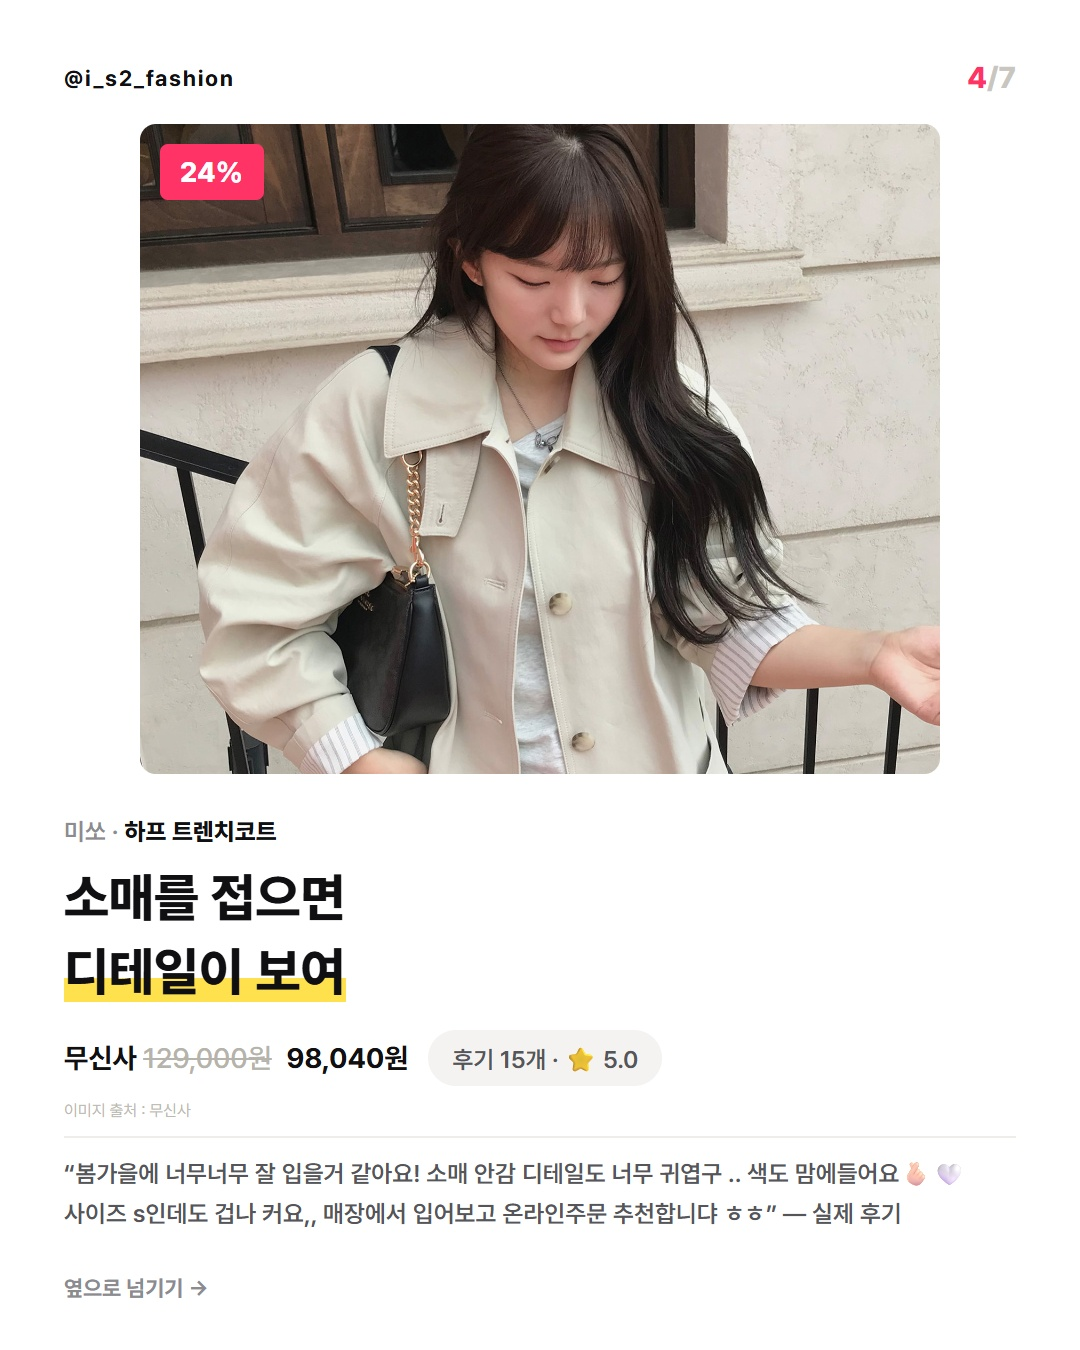
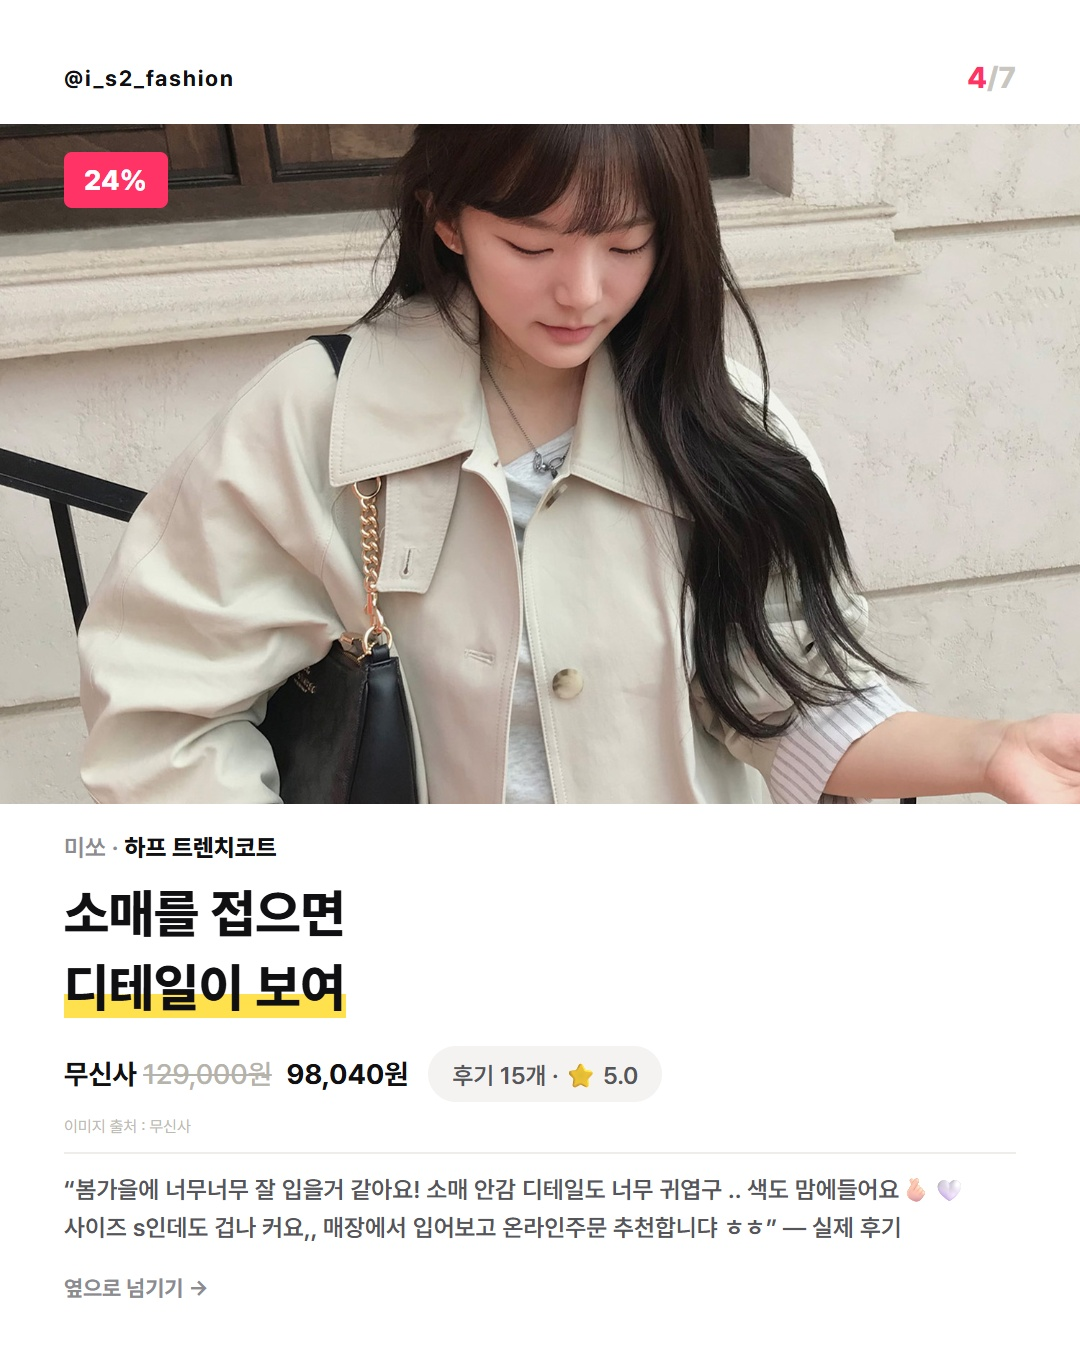
chore: auto-commit by Claude Code (2026-09-04 01:22:17)

diff --git a/card-drafts/early-autumn-outer/index.html b/card-drafts/early-autumn-outer/index.html
@@ -5,9 +5,10 @@
 /* 원본 비율을 유지하므로 남는 영역을 채우는 인위적인 사진 프레임은 사용하지 않는다. */
 .photo{background:transparent}
 .meta s{color:#b6b3ac;font-weight:500;margin-right:4px}
-.card.item .photo,.card.cover .photo{width:400px;border-radius:8px;background:#f0efec}
-.card.cover .photo{height:370px}
-.card.item .photo{height:325px;box-shadow:inset 0 0 0 1px #ebe9e5}
+.card.item .photo,.card.cover .photo{width:540px;margin-left:-32px;margin-right:-32px;align-self:stretch;border-radius:0;background:#f0efec}
+.card.item .photo .badge,.card.cover .photo .badge{left:32px;top:14px}
+.card.cover .photo{height:380px}
+.card.item .photo{height:340px;box-shadow:none}
 .card.item .caption{margin-top:12px}
 .card.item .photo img,.card.cover .photo img{width:100%;height:100%;object-fit:cover;object-position:var(--pos,50% 20%)}
 .cover .caption{margin-top:14px}
@@ -16,10 +17,10 @@
 const cards=[
 {kind:'cover',img:'assets/cover-calvin-big.jpg',pos:'50% 15%',lab:'표지',kicker:'EARLY AUTUMN OUTER',title:'반팔 위에 바로,<br><em>초가을 아우터</em>',sub:'두껍지 않게 분위기만 먼저 바꾸는 다섯 벌'},
 {kind:'item',img:'assets/01-eightseconds-cardigan-crop.jpg',pos:'50% 10%',lab:'에잇세컨즈',badge:'9%',prod:'에잇세컨즈 · <b>러플 긴소매 카디건</b>',title:'진주 단추는 뻑뻑해도<br><em>디자인이 이긴다</em>',meta:'무신사 <s>69,900원</s> 63,610원',proof:'후기 3개 · ⭐ 5.0',sp:'“디자인도 맘에 들고 느낌도 좋아요 단점이라면 단추가 진주라서 좀 빡셉니다. 그래도 그런 단점을 상쇄하는 디자인이에요.” —&nbsp;실제&nbsp;후기'},
-{kind:'item',img:'assets/02-polo-big.jpg',pos:'50% 50%',lab:'폴로 랄프 로렌',badge:'5%',prod:'폴로 랄프 로렌 · <b>빅 재킷 네이비</b>',title:'해링턴보다<br><em>빅 재킷</em>',meta:'무신사 <s>499,000원</s> 474,050원',proof:'후기 6개 · ⭐ 4.8',sp:'“비싸서 매번 쳐다만 보던 폴로 재킷 구매했습니다. 다른 폴로의 워크 재킷류가 많았지만 해링턴 재킷보다는 빅재킷이 제일 이뻐보여서 이걸로 장만했습니다.” —&nbsp;실제&nbsp;후기'},
-{kind:'item',img:'assets/03-mixxo-cuff.jpg',pos:'50% 35%',lab:'미쏘',badge:'24%',prod:'미쏘 · <b>하프 트렌치코트</b>',title:'소매를 접으면<br><em>디테일이 보여</em>',meta:'무신사 <s>129,000원</s> 98,040원',proof:'후기 15개 · ⭐ 5.0',sp:'“봄가을에 너무너무 잘 입을거 같아요! 소매 안감 디테일도 너무 귀엽구 .. 색도 맘에들어요🫰🏻🤍 사이즈 s인데도 겁나 커요,, 매장에서 입어보고 온라인주문 추천합니댜 ㅎㅎ” —&nbsp;실제&nbsp;후기'},
+{kind:'item',img:'assets/02-polo-big.jpg',pos:'50% 35%',lab:'폴로 랄프 로렌',badge:'5%',prod:'폴로 랄프 로렌 · <b>빅 재킷 네이비</b>',title:'해링턴보다<br><em>빅 재킷</em>',meta:'무신사 <s>499,000원</s> 474,050원',proof:'후기 6개 · ⭐ 4.8',sp:'“비싸서 매번 쳐다만 보던 폴로 재킷 구매했습니다. 다른 폴로의 워크 재킷류가 많았지만 해링턴 재킷보다는 빅재킷이 제일 이뻐보여서 이걸로 장만했습니다.” —&nbsp;실제&nbsp;후기'},
+{kind:'item',img:'assets/03-mixxo-cuff.jpg',pos:'50% 38%',lab:'미쏘',badge:'24%',prod:'미쏘 · <b>하프 트렌치코트</b>',title:'소매를 접으면<br><em>디테일이 보여</em>',meta:'무신사 <s>129,000원</s> 98,040원',proof:'후기 15개 · ⭐ 5.0',sp:'“봄가을에 너무너무 잘 입을거 같아요! 소매 안감 디테일도 너무 귀엽구 .. 색도 맘에들어요🫰🏻🤍 사이즈 s인데도 겁나 커요,, 매장에서 입어보고 온라인주문 추천합니댜 ㅎㅎ” —&nbsp;실제&nbsp;후기'},
 {kind:'item',img:'assets/04-calvin-big.jpg',pos:'50% 45%',lab:'캘빈클라인 진',badge:'40%',prod:'캘빈클라인 진 · <b>콘트라스트 스티치 윈드브레이커</b>',title:'가볍게 걸치고<br><em>뒤는 확실하게</em>',meta:'무신사 <s>219,000원</s> 131,400원',proof:'후기 98개 · ⭐ 4.9',sp:'“뒤에 백로고가 너무 예뻐요. 간절기에 들고 다니고 걸치기 좋은 두께감입니다. 가벼워요” —&nbsp;실제&nbsp;후기'},
-{kind:'item',img:'assets/05-adidas-big.jpg',pos:'50% 100%',lab:'아디다스',badge:'17%',prod:'아디다스 · <b>클래식 트랙탑</b>',title:'색감 예쁜데<br><em>밑단 시보리 짱짱</em>',meta:'무신사 <s>109,000원</s> 90,470원',proof:'후기 9개 · ⭐ 5.0',sp:'“디자인이랑 색감 진짜 이뻐요! 그리고 밑단 시보리가 엄청 짱짱해서 골반에 딱 걸쳐요 이 부분 고려해서 사이즈 선택해야 할 것 같아요” —&nbsp;실제&nbsp;후기'},
+{kind:'item',img:'assets/05-adidas-big.jpg',pos:'50% 74%',lab:'아디다스',badge:'17%',prod:'아디다스 · <b>클래식 트랙탑</b>',title:'색감 예쁜데<br><em>밑단 시보리 짱짱</em>',meta:'무신사 <s>109,000원</s> 90,470원',proof:'후기 9개 · ⭐ 5.0',sp:'“디자인이랑 색감 진짜 이뻐요! 그리고 밑단 시보리가 엄청 짱짱해서 골반에 딱 걸쳐요 이 부분 고려해서 사이즈 선택해야 할 것 같아요” —&nbsp;실제&nbsp;후기'},
 {kind:'cta',img:'../../CARD/zzal/20260830.jpg',lab:'CTA',title:'다 사고 싶지만<br><em>통장은 하나</em>',sub:'이번 가을 가장 먼저 살 한 벌부터<br>골라서 저장해두세요'}];
 function html(c,i){let photo=c.kind==='cta'?`<div class="photo"><img src="${c.img}" alt="" onload="sizePhoto(this)"></div>`:`<div class="photo"><img src="${c.img}" alt="" style="--pos:${c.pos||'50% 20%'}">${c.badge?`<span class="badge">${c.badge}</span>`:''}</div>`,body=c.kind==='cover'?`<div class="caption"><div class="kicker">${c.kicker}</div><h2 class="title">${c.title}</h2><p class="sub">${c.sub}</p></div>`:c.kind==='cta'?`<div class="caption"><h2 class="title">${c.title}</h2><p class="sub">${c.sub}</p></div>`:`<div class="caption"><div class="prodline">${c.prod}</div><h2 class="title">${c.title}</h2><div class="metarow"><span class="meta">${c.meta}</span><span class="proof">${c.proof}</span></div><div class="credit">이미지 출처 : 무신사</div><div class="selling">${c.sp}</div></div>`;return `<div class="card ${c.kind}" id="card${i}"><div class="toprow"><span class="handle">@i_s2_fashion</span><span class="num">${i+1}<i>/7</i></span></div>${photo}${body}<div class="foot">${i<6?'옆으로 넘기기 →':'&nbsp;'}</div></div>`}
 function sizePhoto(img){const wrap=img.parentElement,isCta=wrap.closest('.cta'),maxW=isCta?400:330,maxH=isCta?380:330,ratio=img.naturalWidth/img.naturalHeight;let w=maxW,h=Math.round(w/ratio);if(h>maxH){h=maxH;w=Math.round(h*ratio)}wrap.style.width=w+'px';wrap.style.height=h+'px'}

diff --git a/card-drafts/early-autumn-denim/render.py b/card-drafts/early-autumn-denim/render.py
@@ -1,0 +1,37 @@
+from pathlib import Path
+
+from playwright.sync_api import sync_playwright
+
+
+draft = Path(__file__).resolve().parent
+
+with sync_playwright() as playwright:
+    browser = playwright.chromium.launch(
+        executable_path=r"C:\Program Files\Google\Chrome\Application\chrome.exe",
+        headless=True,
+    )
+    context = browser.new_context(
+        viewport={"width": 1200, "height": 900}, device_scale_factor=2
+    )
+    page = context.new_page()
+    page.goto((draft / "index.html").as_uri())
+    page.wait_for_load_state("networkidle")
+    for index in range(7):
+        page.evaluate(
+            "(index) => { const card = document.querySelector(`#card${index}`); "
+            "card.style.cssText += ';position:fixed;left:0;top:0;transform:none;z-index:9999'; }",
+            index,
+        )
+        page.screenshot(
+            path=str(draft / f"{index + 1}.jpg"),
+            type="jpeg",
+            quality=95,
+            clip={"x": 0, "y": 0, "width": 540, "height": 675},
+        )
+        page.evaluate(
+            "(index) => { const card = document.querySelector(`#card${index}`); "
+            "card.style.position = 'relative'; card.style.zIndex = ''; }",
+            index,
+        )
+
+    browser.close()

diff --git a/card-drafts/early-autumn-outer/result.md b/card-drafts/early-autumn-outer/result.md
@@ -37,7 +37,8 @@
    ③ 6번 아디다스: 헤드라인이 "밑단 시보리"인데 사진은 얼굴·가슴만 보였다 → 크롭 위치를 내려 밑단 시보리가 보이게 조정.
    ④ 3번 폴로: 무신사에 착용컷이 없어 누끼 유지(규칙 4 예외 보고). 재킷 전체가 들어오게 중앙 크롭, 흰 배경이 카드와 섞이지 않게 사진 프레임에 1px 테두리.
 
-9. **디자인 피드백 2차 (09-05)** — "양옆 애매한 간격 대신 분명하게 띄우고, 상품이 잘리거나 안 보이는 카드 수정":
+9. **디자인 피드백 2차 (09-05)** — 1차 해석(여백 70px 인셋)은 오독. 사용자 의도는 **양옆 여백 없이 사진을 카드 끝까지 꽉 채우는 풀블리드**.
+   사진 프레임 540px 풀블리드(표지 380px·상품 340px 높이, 모서리 각), 배지는 32px 안쪽. 이전 시도 기록:
    사진 프레임을 476→**400px**(좌우 여백 32→70px)로 줄이고 높이를 310→**325px**(표지 370px)로 키워 정사각에 가깝게 바꿨다.
    세로 사진의 노출 비율이 54%→68~77%로 늘어 카디건·트렌치·재킷이 거의 통째로 들어온다. 아디다스는 헤드라인(밑단 시보리)에 맞춰 하단 기준 크롭.
 
